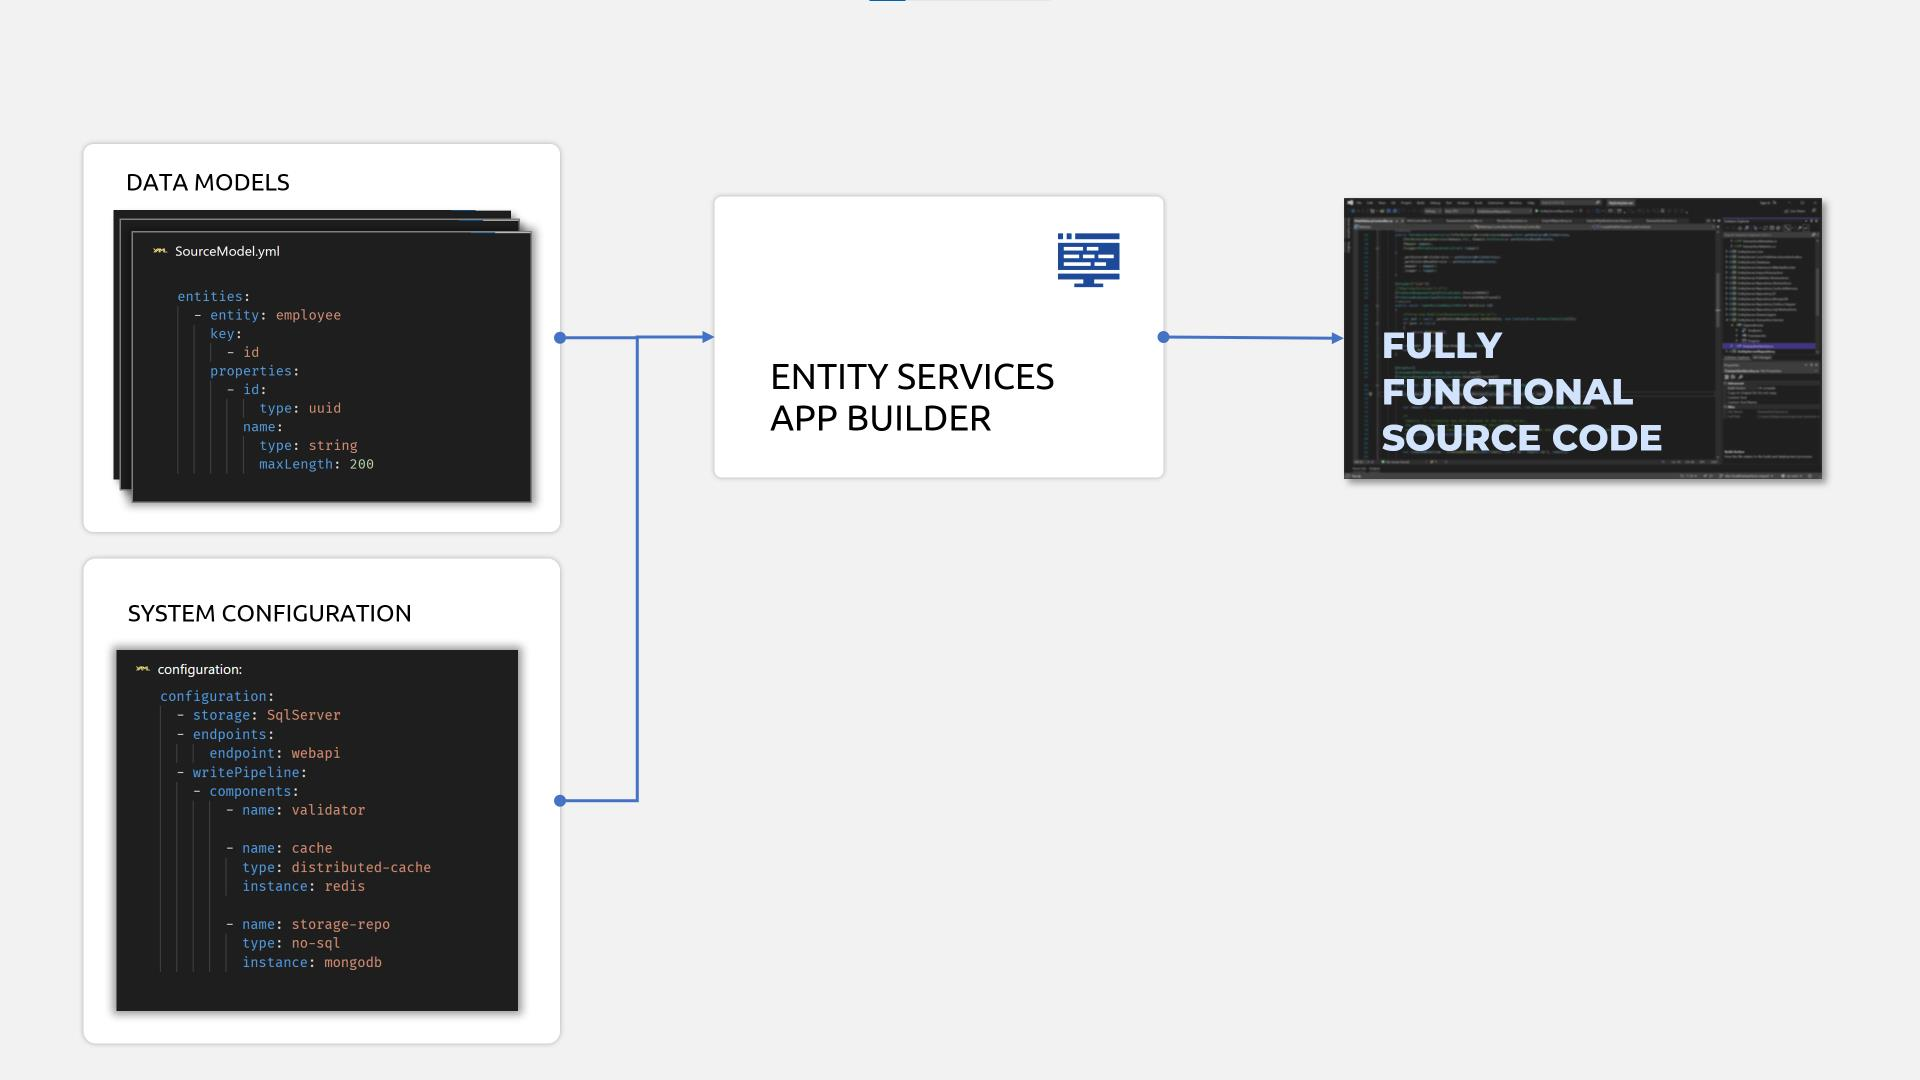
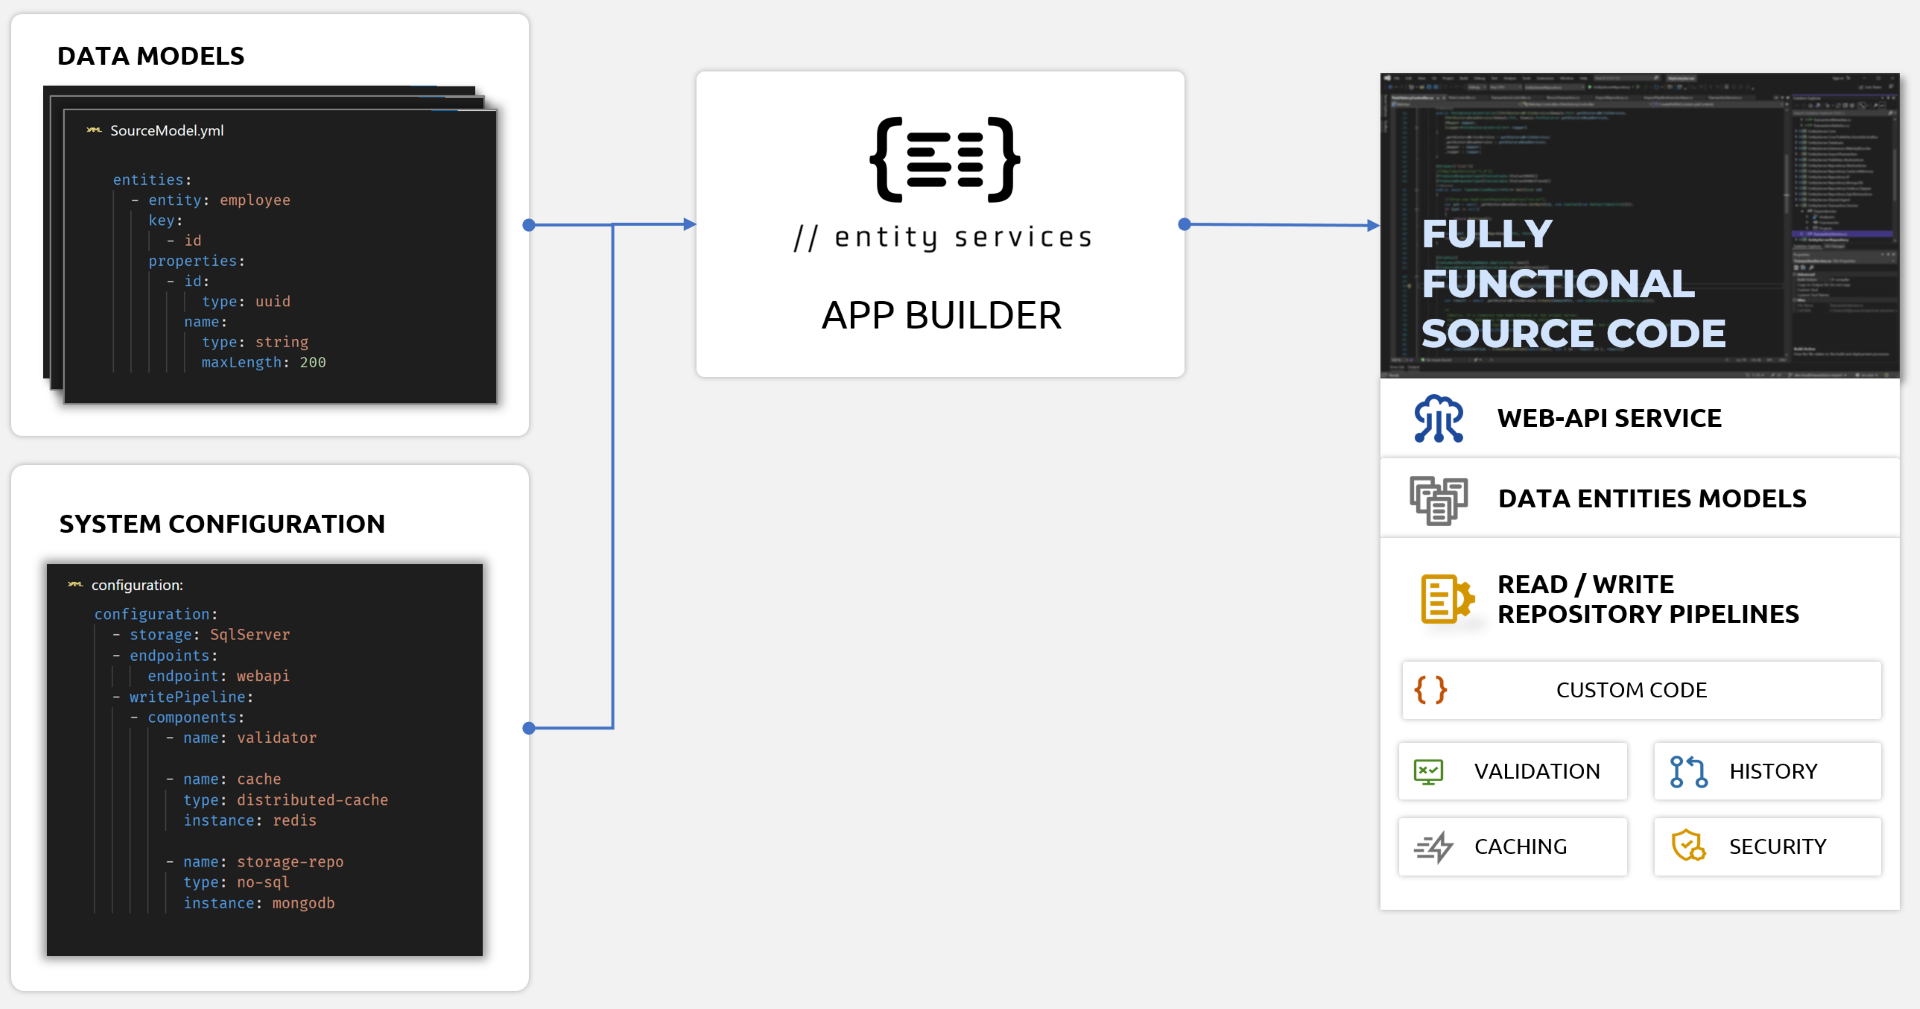
Updated es-process img and readme

diff --git a/readme.md b/readme.md
@@ -1,7 +1,12 @@
 # What is //entity services
 
 **//entity services** is a **free** tool that will help you speed up the development of enterprise .NET solutions.
-It creates fully functional C# source code based on a simple configuration.
+It creates fully functional C# source code based on a simple configuration.  
+Generated source code is customizable and it includes:
+ * Web API project,
+ * data-centric entities models,
+ * read repository pipeline project with caching and security components, and
+ * write repository pipeline with validation and security components.
 
 Read more about [//entity services](https://entity.services/solution) , watch [short introduction video](https://youtu.be/ksIUNwSfV5g), browse the [documentation](https://docs.entity.services/overview/) or follow the [quick start](#quickstart) instructions to try it out!
 
@@ -50,7 +55,7 @@ where flag `-g` will install it globally.
 
 ## 2. Define solution components
 
-`es-builder` tool will create source code based on yaml files that define:
+`es-builder` tool will create source code based on YAML files that define:
 
 * configuration of entities,
 * selected components for repository (Entity Framework, Azure Cosmos Db, etc.) and
@@ -62,20 +67,21 @@ The easiest way to define entities is using [//entity services portal](https://p
 
 ![portal](img/portal.png)
 
-The portal comes pre-populated with a simple example of entities for a bookstore solution but you can easily create the entities that fit your needs.
+The portal comes pre-populated with a simple example of entities for a bookstore solution, but you can easily create the entities that fit your needs.
 
 Examples of prompts:
 
-* `Clear all  ` (clears the current content)
+* `Clear all` (clears the current content)
 * `Create entities for Pub management solution`
 * `I am creating an app for NHS. Created entities should include Hospital, Patient and Doctor`
-* `Change Doctor entity to Physician`
+* `Rename entity Doctor to Physician`
+* `Set max length of all string properties of entity Physician to 200`
 
-Copy the generated yaml that describes the entities and save it as local file(s) into your working folder or subfolder.  Use extension `.yml`.
+Copy the generated YAML that describes the entities and save it as local file(s) into your working folder or subfolder.  Use the extension `.yml`.
 
-You will also need to define the components of the solution. The easiest way is to choose one of the configuration examples ([entity-framework-quickstart.yml](examples/3-entity-framework-quickstart.yml) if you want to use Sql Server or [mongodb-quickstart.yml ](examples/mongodb-quickstart.yml)for NoSql database) in this repo and replace the entities with the one you created.
+You will also need to define the components of the solution. The easiest way is to choose one of the configuration examples from this repo, such as [examples/entity-framework-quickstart.yml](examples/3-entity-framework-quickstart.yml) if you want to use Sql Server, or [examples/mongodb-quickstart.yml ](examples/mongodb-quickstart.yml) for NoSql database.  Make sure to replace the entities with the one you created.
 
-In folder `\examples` of this repo you will find examples of configuration.  Here is a snippet you can use:
+In folder `/examples` of this repo, you will find other examples of configuration.  Here is a snippet you can use:
 
 ```yml
 solutionName: "Axellon.Simple"
@@ -96,7 +102,7 @@ dataApi:
 
 ## 3. Start source code builder
 
-Before using other `es-builder` CLI commands, you need to sign in.
+Before using `es-builder` CLI commands, you need to sign in.
 
 Run the `login` command:
 
@@ -104,7 +110,7 @@ Run the `login` command:
 es-builder login
 ```
 
-If the CLI can open your default browser, it will open Entity Services page for login or sign-up.
+If the CLI can open your default browser, it will open Entity.Services page for login or sign-up.
 
 After successful login, start the build process with command:
 
@@ -112,7 +118,7 @@ After successful login, start the build process with command:
 es-builder build
 ```
 
-When build command is started, it will use `.yml` configuration file(s) to create source code and store solution files in defined location.
+When build command is started, it will use `.yml` configuration file(s) to create source code and store solution files in defined location.  The default location it the folder where you started `es-builder`.
 
 ![build-process](img/build.png)
 
@@ -128,7 +134,8 @@ Here are main **components** of generated solution:
 
 ## 5. Build and run your solution
 
-Right-click on `*.WebApi` project and select option `"Set as Startup Project"`.
+Make sure to set Web API project as your startup project.  
+For example, if you are using Visual Studio, right-click on `*.WebApi` project and select option `"Set as Startup Project"`.
 
 Now you can build and run your solution.
 
@@ -142,7 +149,7 @@ WebApi project contains folder `HttpEndpoints` with _.http_ files. Their purpose
 
 ### Open API Web UI
 
-Based on default settings in app.settings, upon start of WebApi project, web browser will be opened with OpenApi UI at the route `/interactive-docs`.
+Based on default settings in `app.settings`, upon start of WebApi project, web browser will be opened with OpenApi UI at the route `/interactive-docs`.
 
 # Need help?
 
